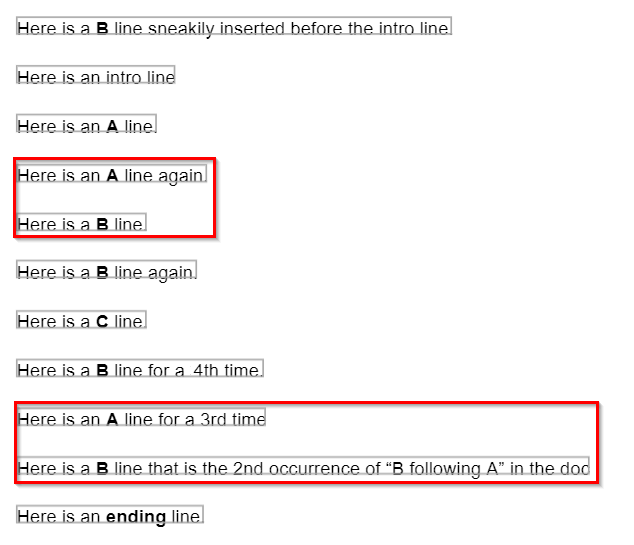
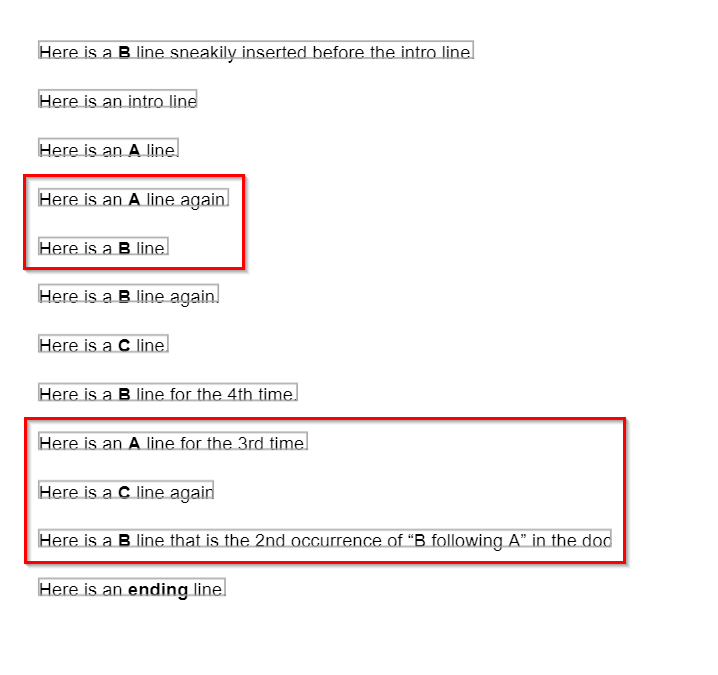
further clarifications

Changed region(s): [[0.0, 0.5615, 0.959, 0.967], [0.0, 0.0312, 0.7192, 0.5303]]

diff --git a/readme-sync/v0/senseml-reference/200 - field-query-object/100 - anchor-object.md b/readme-sync/v0/senseml-reference/200 - field-query-object/100 - anchor-object.md
@@ -120,13 +120,13 @@ Versus:
     
 ```
 
-To clarify the difference, the following image shows the different outputs of these anchors:
+To clarify the difference,  the following image shows the outputs of these anchors:
 
 ![](https://raw.githubusercontent.com/sensible-hq/sensible-docs/main/readme-sync/assets/v0/images/anchor_example_1.png)
 
 This example uses the Passthrough method and `"match":all"` to display the full anchor output. It shows that:
 
-- For the `"match_array"` field, Sensible searches for the text in the last array element, and returns that text as an anchor only if it is directly preceded by the other array elements.  Since we specify `"match":all"`, Sensible finds two anchors. See the following image for an illustration of how Sensible matches two B lines: 
+- For the `"match_array"` field, Sensible searches for the text in the last array element, and anchors on that text only if it is preceded by the other array elements in order, with no intervening repetitions of matches.  Since we specify `"match":all"`, Sensible finds two anchors. See the following image for an illustration of how Sensible matches two B lines: 
 
   ![](https://raw.githubusercontent.com/sensible-hq/sensible-docs/main/readme-sync/assets/v0/images/anchor_example_2.png)
 
@@ -142,46 +142,7 @@ You can try out this example yourself in the Sensible app using the following do
 This example uses the following config:
 
 ```json
-{
-  "fields": [
-    {
-      "id": "match_array",
-      "match": "all",
-      "anchor": {
-        "match": [
-          {
-            "type": "startsWith",
-            "text": "here is an A line"
-          },
-          {
-            "type": "startsWith",
-            "text": "here is a B line"
-          }
-        ]
-      },
-      "method": {
-        "id": "passthrough"
-      }
-    },
-    {
-      "id": "start_and_match",
-      "match": "all",
-      "anchor": {
-        "start": {
-          "type": "startsWith",
-          "text": "here is an A line"
-        },
-        "match": {
-          "type": "startsWith",
-          "text": "here is a B line"
-        }
-      },
-      "method": {
-        "id": "passthrough"
-      }
-    }
-  ]
-}
+
 ```
 
 And the output of this example is:

diff --git a/readme-sync/v0/senseml-reference/200 - field-query-object/101 - match-object.md b/readme-sync/v0/senseml-reference/200 - field-query-object/101 - match-object.md
@@ -169,7 +169,7 @@ The following example performs OCR only on a set page range. It's useful to narr
 Match arrays
 ----
 
-For an array of Match objects, all matches must be found to successfully create an anchor.  Each Match object must target a separate successive line. In other words, the second match starts its search in the line after the line matched by the first Match object in the array, and so on. 
+For an array of Match objects, all matches must be found to successfully create an anchor.  Each Match object must target a separate successive line. In other words, the second match starts its search in the line after the line matched by the first Match object in the array, and so on.  Sensible searches for the text in the last array element, and anchors on that text only if it is preceded by the other array elements in order, with no intervening repetitions of matches.
 
 ```json
 {
@@ -200,7 +200,6 @@ For an array of Match objects, all matches must be found to successfully create 
   ]
 }
 ```
-
 
 
 
